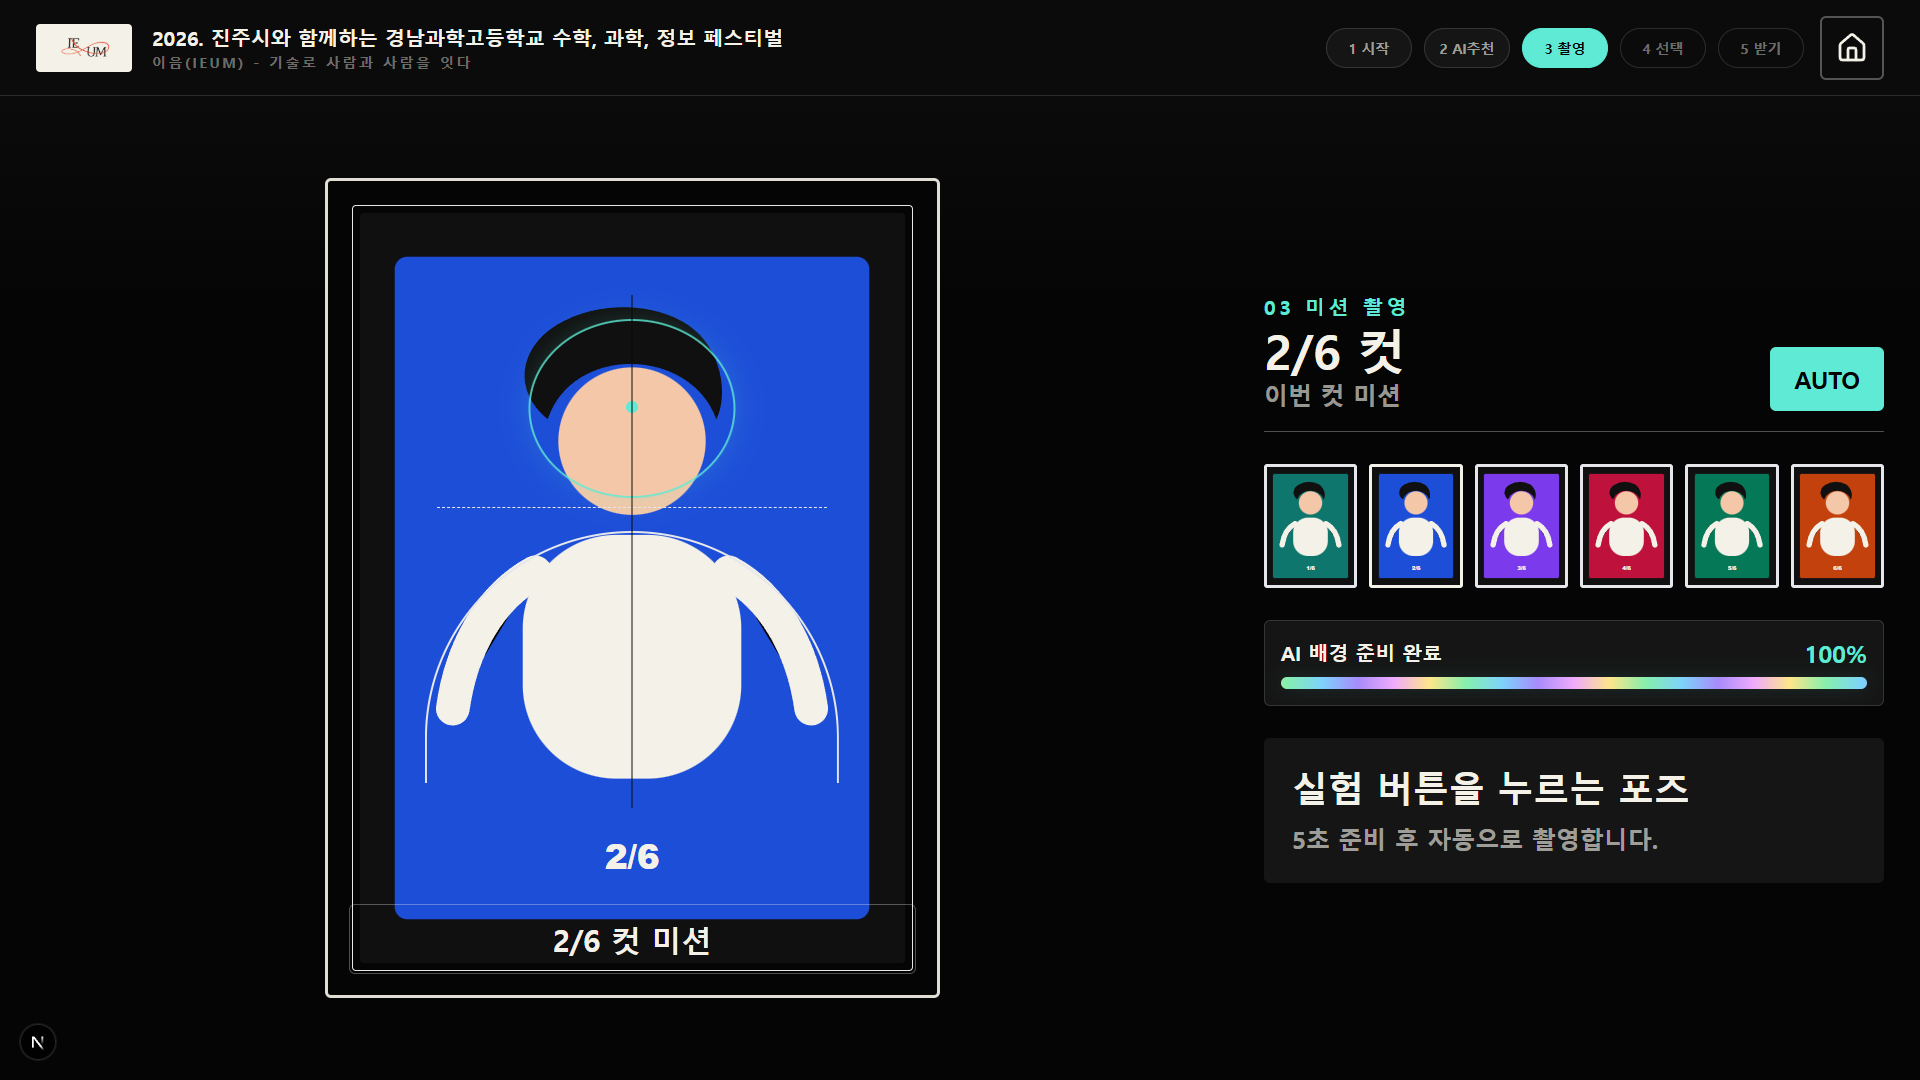
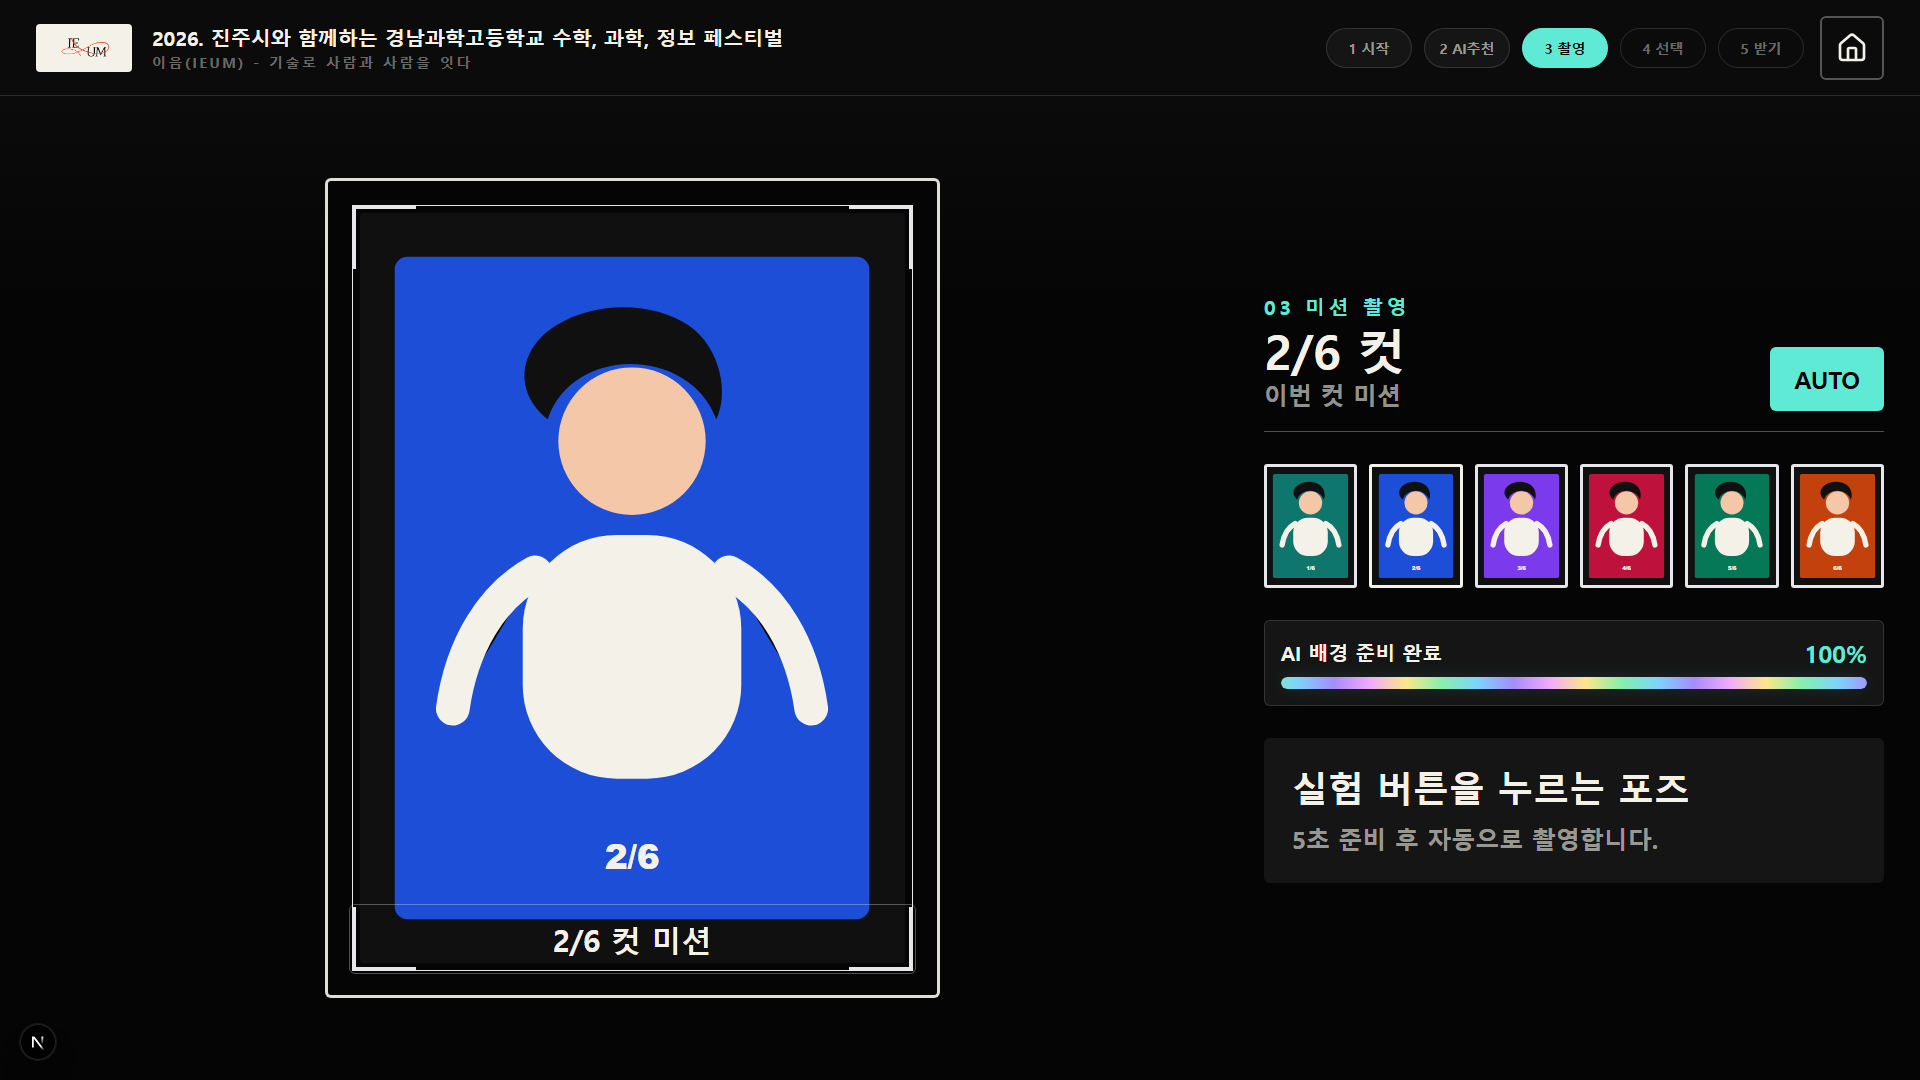
Remove person position camera guides

Changed region(s): [[0.6562, 0.6111, 0.9688, 0.6417], [0.2812, 0.4583, 0.375, 0.5194]]

diff --git a/components/CameraPreview.tsx b/components/CameraPreview.tsx
@@ -18,12 +18,11 @@ interface CameraPreviewProps {
 export function CameraGuideOverlay() {
   return (
     <div className="pointer-events-none absolute inset-0" aria-hidden="true">
-      <div className="absolute inset-6 rounded-[4px] border border-white/28" />
-      <div className="absolute left-1/2 top-[17%] h-[22%] w-[34%] -translate-x-1/2 rounded-[50%] border-2 border-[#5eead4]/80 shadow-[0_0_28px_rgba(94,234,212,0.18)]" />
-      <div className="absolute left-1/2 top-[43%] h-[31%] w-[68%] -translate-x-1/2 rounded-t-[999px] border-2 border-b-0 border-white/36" />
-      <div className="absolute left-1/2 top-[27%] h-3 w-3 -translate-x-1/2 rounded-full bg-[#5eead4]" />
-      <div className="absolute left-[18%] right-[18%] top-[40%] border-t border-dashed border-white/26" />
-      <div className="absolute left-1/2 top-[14%] h-[63%] w-px -translate-x-1/2 bg-white/12" />
+      <div className="absolute inset-6 rounded-[4px] border border-white/22" />
+      <div className="absolute left-6 top-6 h-16 w-16 border-l-4 border-t-4 border-[#5eead4]/86" />
+      <div className="absolute right-6 top-6 h-16 w-16 border-r-4 border-t-4 border-[#5eead4]/86" />
+      <div className="absolute bottom-6 left-6 h-16 w-16 border-b-4 border-l-4 border-[#5eead4]/86" />
+      <div className="absolute bottom-6 right-6 h-16 w-16 border-b-4 border-r-4 border-[#5eead4]/86" />
     </div>
   );
 }
